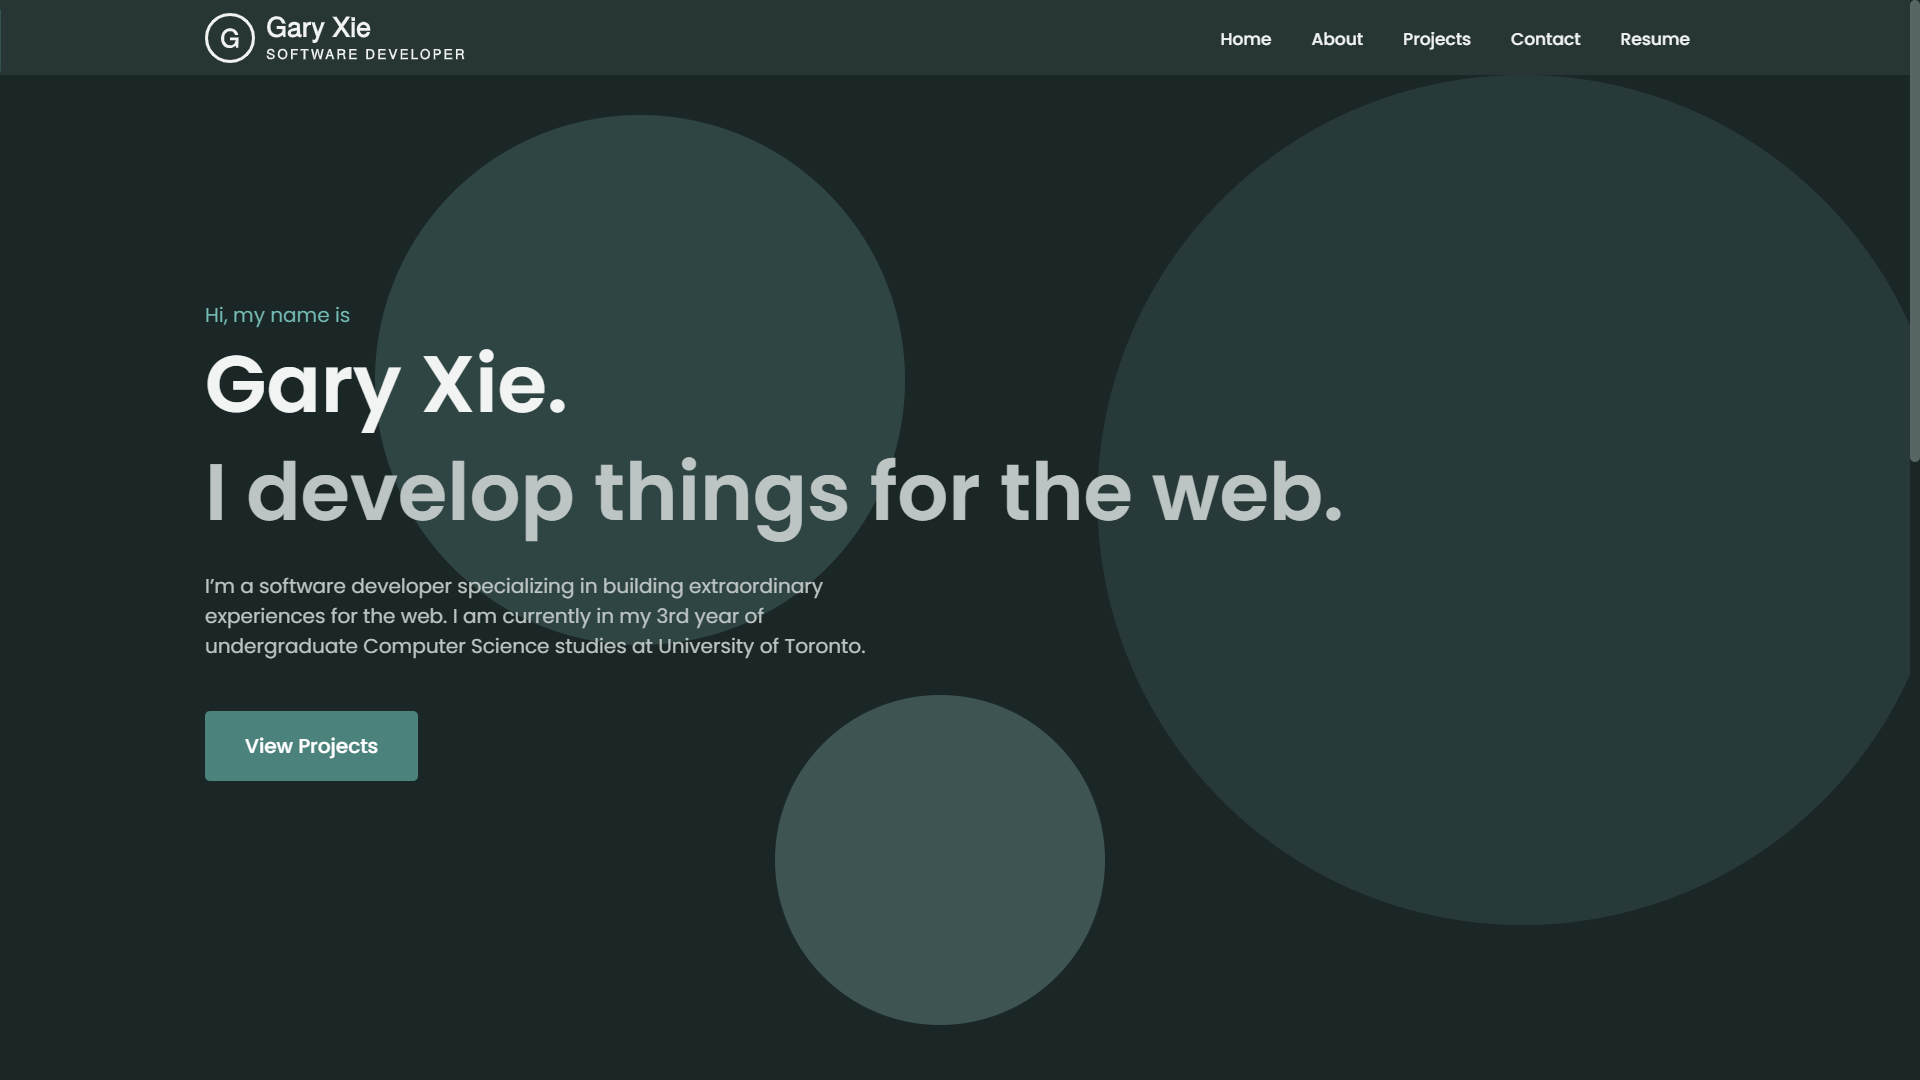
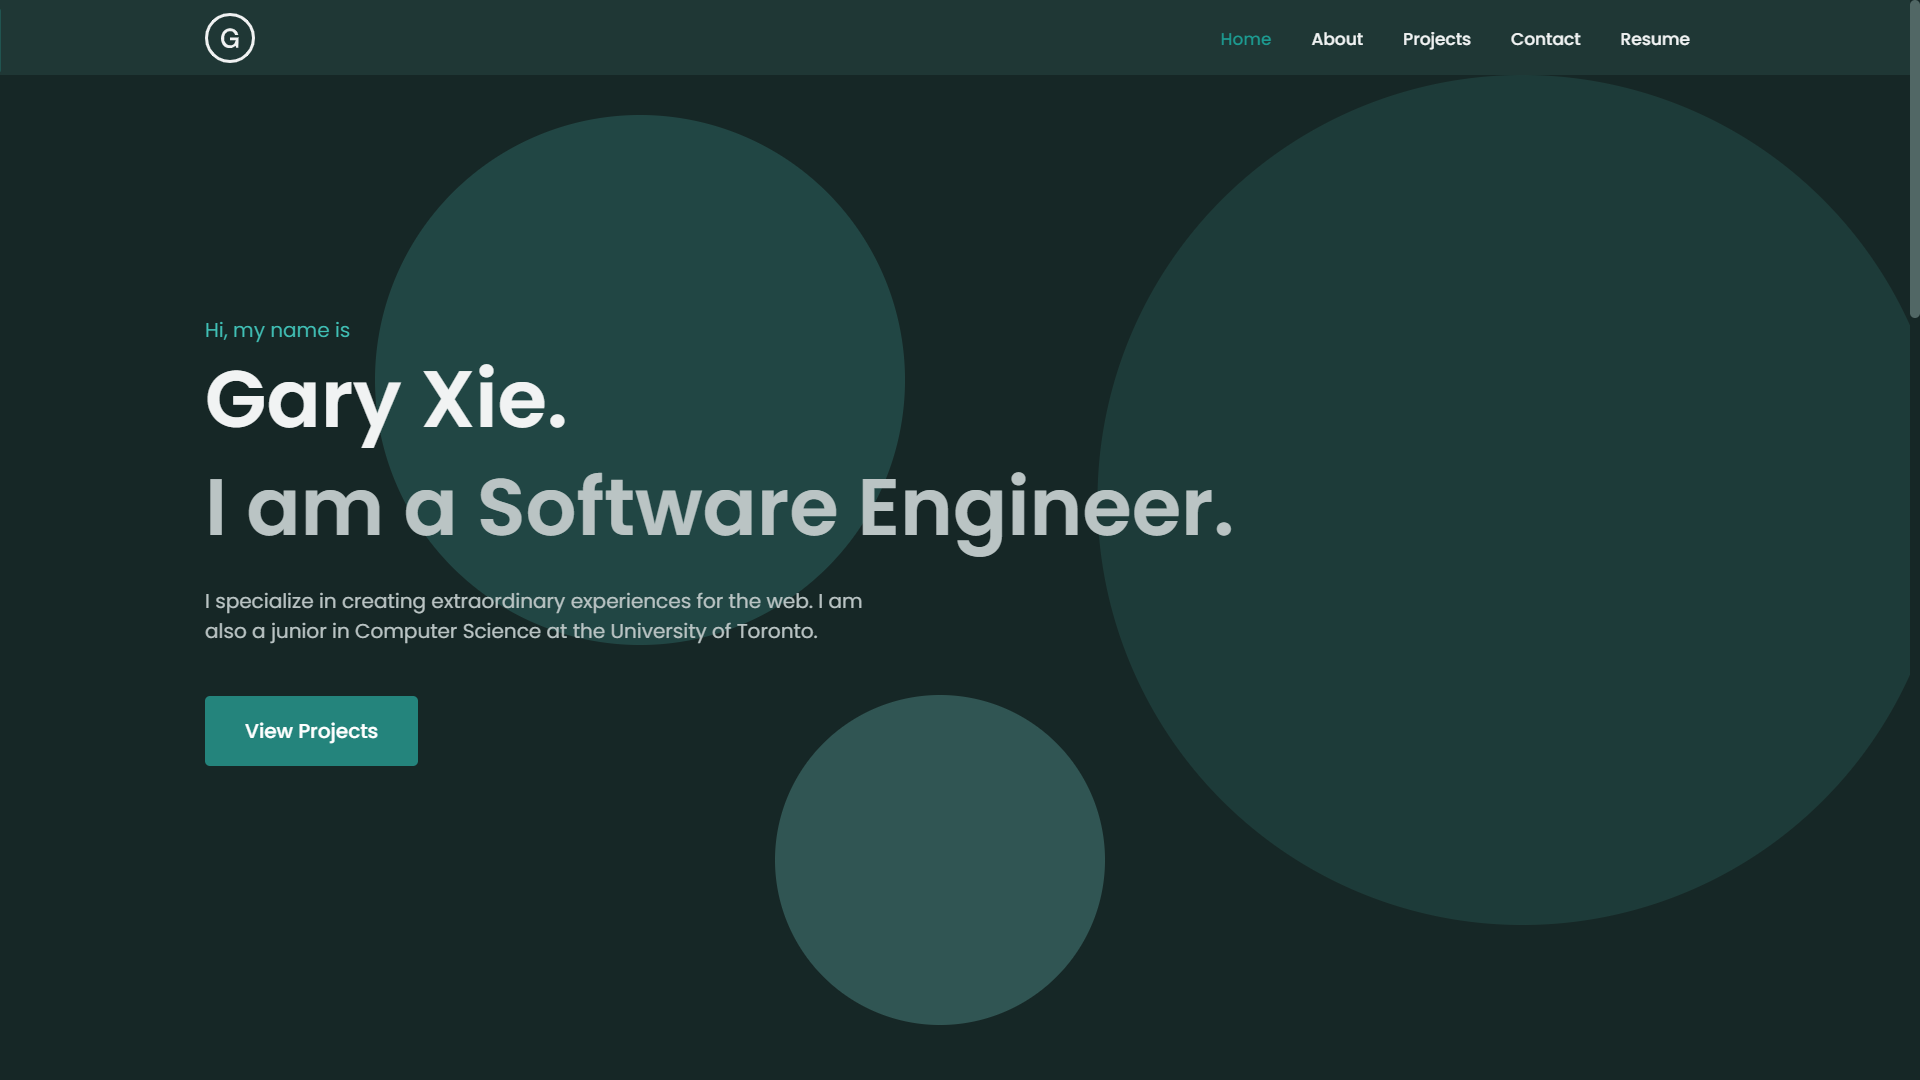
Refactor descriptions and title

diff --git a/components/Hero/Hero.tsx b/components/Hero/Hero.tsx
@@ -32,11 +32,10 @@ const Hero: React.FC = () => {
       >
         <h3 className={styles.titleSubHeader}>Hi, my name is</h3>
         <h2 className={styles.title}>Gary Xie.</h2>
-        <h1 className={styles.subtitle}>I develop things for the web.</h1>
+        <h1 className={styles.subtitle}>I am a Software Engineer.</h1>
         <p className={styles.copyText}>
-          I’m a software developer specializing in building extraordinary
-          experiences for the web. I am currently in my 3rd year of
-          undergraduate Computer Science studies at University of Toronto.
+          I specialize in creating extraordinary experiences for the web. I am
+          also a junior in Computer Science at the University of Toronto.
         </p>
         <div className={styles.callToActionContainer}>
           <a

diff --git a/components/About/About.tsx b/components/About/About.tsx
@@ -12,9 +12,9 @@ const About: React.FC = () => {
           <div className={styles.aboutText}>
             <p>Hello, my name is Gary!</p>
             <p>
-              I’m a software developer based in Toronto, Canada, and I am
-              currently in my 3rd year of studying Computer Science at
-              University of Toronto.
+              I’m a software engineer based in Toronto, Canada, currently in my
+              junior year studying Computer Science at the University of
+              Toronto, majoring in Software Engineering.
             </p>
             <p>
               I’ve been lucky enough to experience a variety of software

diff --git a/components/LogoTitle/LogoTitle.tsx b/components/LogoTitle/LogoTitle.tsx
@@ -38,7 +38,7 @@ const LogoTitle: React.FC = () => {
           />
         </g>
       </svg>
-      <svg
+      {/* <svg
         version="1.0"
         xmlns="http://www.w3.org/2000/svg"
         viewBox="0 0 901.000000 224.000000"
@@ -187,7 +187,7 @@ const LogoTitle: React.FC = () => {
               62 7 65 14 14 148 7 171 -9z"
           />
         </g>
-      </svg>
+      </svg> */}
     </a>
   )
 }

diff --git a/pages/_document.tsx b/pages/_document.tsx
@@ -7,7 +7,7 @@ class MyDocument extends Document {
         <Head>
           <meta
             name="description"
-            content="Gary Xie is a software developer specializing in building extraordinary experiences for the web."
+            content="Gary Xie is a software engineer specializing in creating extraordinary experiences for the web."
           />
         </Head>
         <body>

diff --git a/pages/_app.tsx b/pages/_app.tsx
@@ -15,7 +15,7 @@ const App: React.FC<AppProps> = ({ Component, pageProps }) => {
   return (
     <>
       <Head>
-        <title>Gary Xie | Software Developer</title>
+        <title>Gary Xie | Software Engineer</title>
         <link rel="icon" href="/logo.svg" />
         <meta
           name="viewport"
